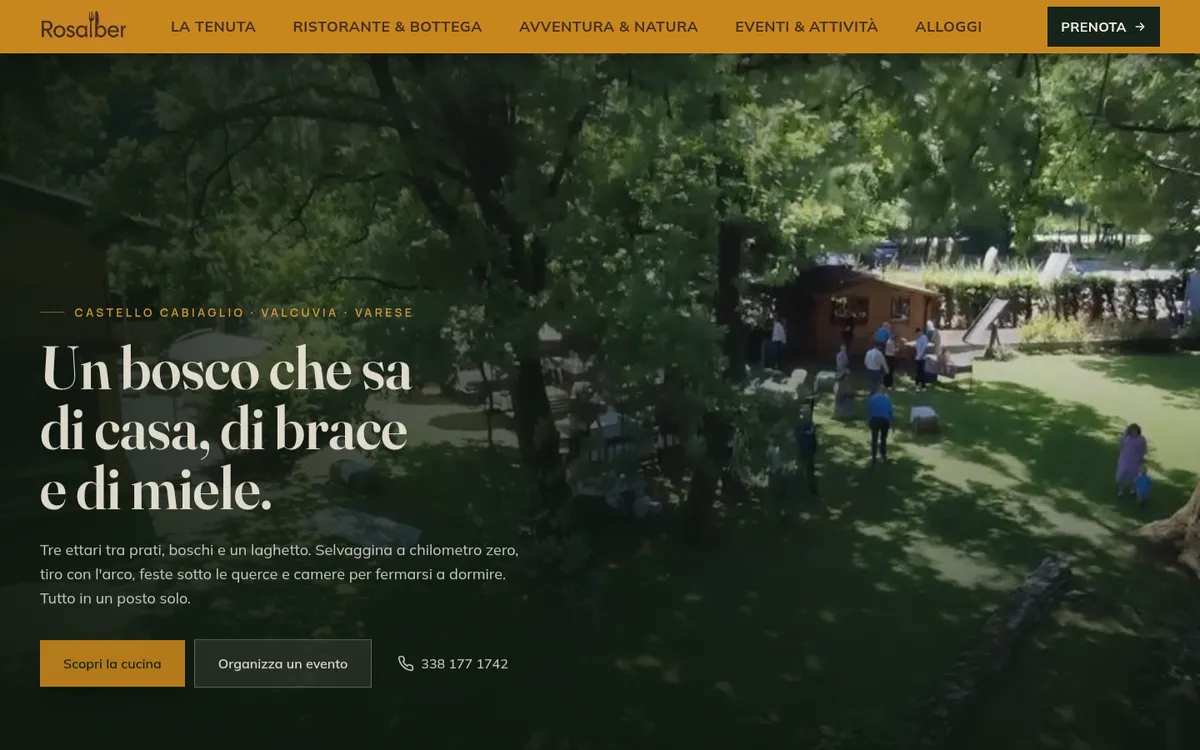
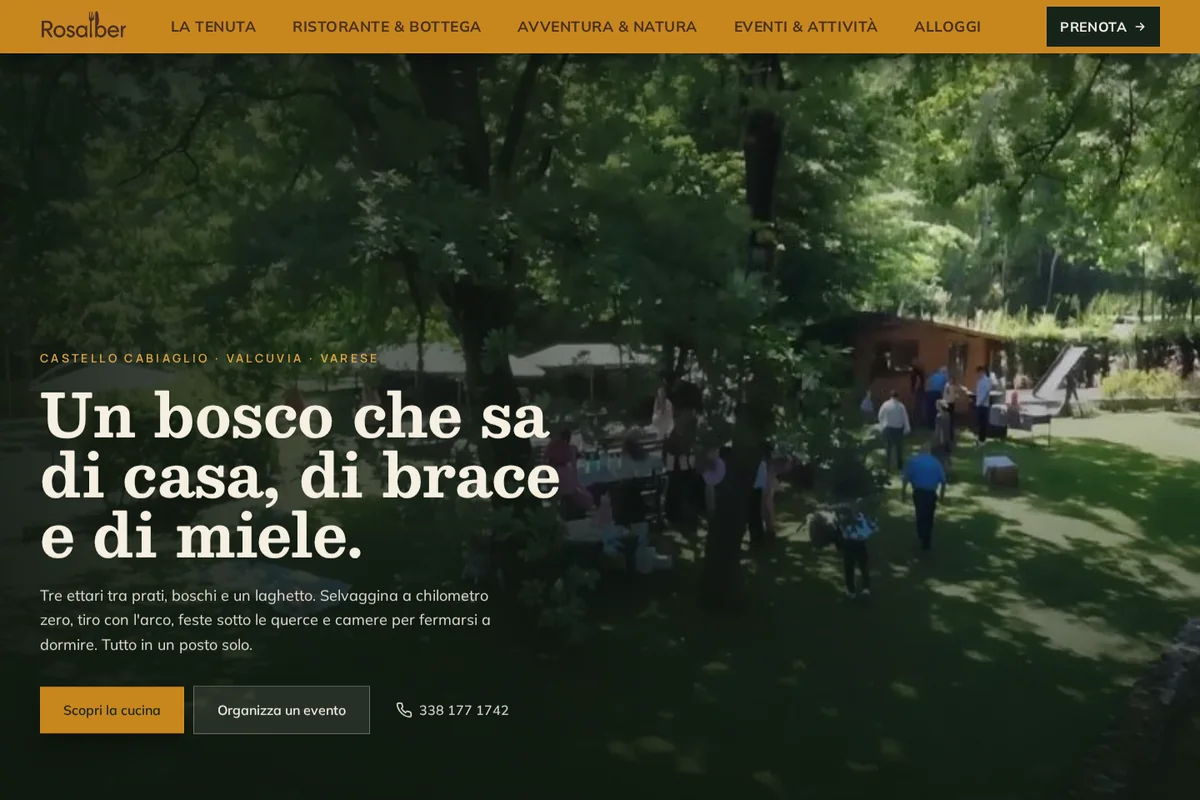
Refresh project screenshots and stop cropping them
- Kcal Tracker: Stats on the left, status-bar space so nothing sits under the island
- Baumarine and Agriturismo Rosalber: new 3:2 shots of the live sites
- Site mockup follows the 3:2 image ratio instead of a fixed height (no side crop)

diff --git a/src/sections/Work.tsx b/src/sections/Work.tsx
@@ -127,10 +127,10 @@ function ProjectCard({ project, index }: { project: Project; index: number }) {
                     src={project.image}
                     alt={`${project.name} — ${project.tagline}`}
                     loading="lazy"
-                    className="block h-[300px] w-full object-cover object-top"
+                    className="block aspect-[3/2] w-full object-cover object-top"
                   />
                 ) : (
-                  <div className="flex h-[300px] items-center justify-center font-mono text-[11px] uppercase tracking-widest text-muted">
+                  <div className="flex aspect-[3/2] items-center justify-center font-mono text-[11px] uppercase tracking-widest text-muted">
                     Image here
                   </div>
                 )}
